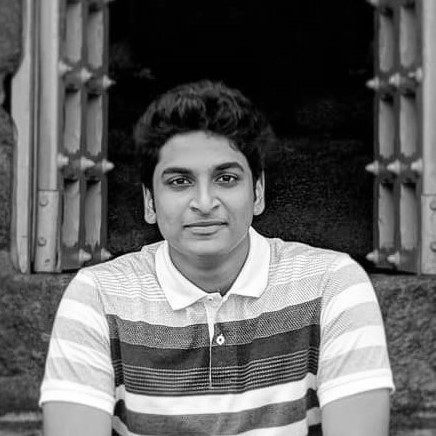
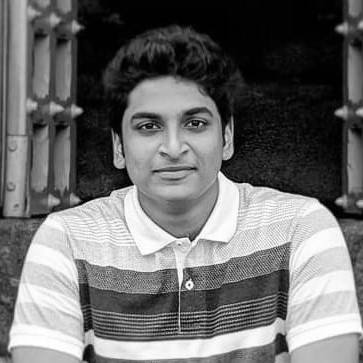
changed fonts

diff --git a/index.html b/index.html
@@ -6,50 +6,61 @@
     <meta name="viewport" content="width=device-width, initial-scale=1.0">
     <link rel="stylesheet" href="styles.css">
     <link rel="preconnect" href="https://fonts.gstatic.com">
-    <link href="https://fonts.googleapis.com/css2?family=Inter:wght@400;500;700;800&display=swap" rel="stylesheet">
+    <!-- <link href="https://fonts.googleapis.com/css2?family=Inter:wght@400;500;700;800&display=swap" rel="stylesheet"> -->
+    <!-- <link href="https://fonts.googleapis.com/css2?family=Libre+Baskerville:wght@400;700&family=Raleway:wght@400;500;700;800&display=swap" rel="stylesheet"> -->
+    <link href="https://fonts.googleapis.com/css2?family=DM+Sans:wght@400;500;700&display=swap" rel="stylesheet">
+    <!-- <link href="https://fonts.googleapis.com/css2?family=DM+Serif+Display&display=swap" rel="stylesheet"> -->
     <title>Reuben Mathew</title>
 </head>
 <body>
     <header>
         <div class="wrapper-title">
-            <span class="fname">Reuben&nbsp;</span>
-            <span class="lname">Mathew</span>
+            <span class="fname">reuben&nbsp;</span>
+            <span class="lname">mathew</span>
         </div>
         <div class="subtitle">
             <img src="img/profile-pic.jpg" class="profile-pic"/>
-            <p><span class="center-text margin-add">An active learner, interested in design thinking</span>
-                <span class="center-text">and the meeting point of humans and technology.<span><br><br>Currently working as a UI/UX Intern at <a class="link-format" href="https://emilda.in/" target="_blank" rel="noopener noreferrer">Emilda Solutions</a>.<br><br>
+            <p><span class="center-text margin-add">cse student at iiitdm interested in design thinking</span>
+                <span class="center-text">and the meeting point of humans and technology.<span><br><br>former ui/ux intern at <a class="link-format" href="https://emilda.in/" target="_blank" rel="noopener noreferrer">emilda solutions</a>.<br>
         </div>
         <!-- <div class="quote subtitle">
             <span><i>"medicine, law, business, engineering, these are noble pursuits<br> and necessary to sustain life. But poetry, beauty, romance, love, <br>these are what we stay alive for" - John Keating</i></span>
         </div> -->
     </header>
-    <div>
+    <div class="page-2"  >
+        <!-- <p>
+            <iframe src="https://open.spotify.com/embed/playlist/0CqtEmL0us8kbHvej9S8mK" width="30%" height="380" frameBorder="0" allowfullscreen="" allow="autoplay; clipboard-write; encrypted-media; fullscreen; picture-in-picture" class="sp-1"></iframe>
+        </p> -->
         <div class="wrapper-title">
-            <span class="fname">Projects</span>
+            <span class="fname">projects</span>
         </div>
         <div class="subtitle">
-            <p class="text-box project-subtitle"><span><strong class="blue-color">EyeSpyDis:</strong> A wearable device for disease detection, 
-                    by processing the image of the eye.
-                    Algorithm to detect Arcus Senilis (light ring around cornea).</span>
+            <p class="text-box project-subtitle"><span><strong class="blue-color"><a class="link-format" href="https://github.com/reubenmathew2/parallel-recommendation-system" target="_blank" rel="noopener noreferrer">parallel recommenation system:</a></aParallel></strong> user-based KNN recommendation system for the movielens data set. implemented in c.</span>
                 <!-- <br><br><a class="link-format" href="https://emilda.in/" target="_blank" rel="noopener noreferrer"></a><br><br> -->
                 </p>
-                <p class="text-box project-subtitle"><span><strong class="blue-color">Webpage Hosting Application: </strong>A private web hosting GUI application. User can upload  
+                <p class="text-box project-subtitle"><span><strong class="blue-color"><a class="link-format" href="https://www.behance.net/gallery/120324687/Roza-POS-Landing-Page" target="_blank" rel="noopener noreferrer">ui design:</a> </strong>user interface designing for landing pages as well as digital products such as point of sale software. primarily worked with adobe xd.</span>
+                </p>
+                <p class="text-box project-subtitle"><span><strong class="blue-color"><a class="link-format" href="https://github.com/reubenmathew2/connect-3-app" target="_blank" rel="noopener noreferrer">connect 3 app:</a> </strong>a variation of tic-tac-toe, played with checkers. 
+                    android app developed using java. </span>
+                </p>
+                <p class="text-box project-subtitle"><span><strong class="blue-color"><a class="link-format" href="https://github.com/reubenmathew2/faculty-profile-managment" target="_blank" rel="noopener noreferrer">web development:</a> </strong>iiitdm faculty profile management system. database systems course project.</span>
+                </p>
+                <!-- <p class="text-box project-subtitle"><span><strong class="blue-color">Webpage Hosting Application: </strong>A private web hosting GUI application. User can upload  
                     HTML/CSS files to server, a link will be provided to view 
                     the webpage in the browser. Developed using Python.</span>
                 </p>
-                <p class="text-box project-subtitle"><span><strong class="blue-color">Connect 3 App: </strong>A variation of tic-tac-toe, played with checkers. 
-                    Android App developed using Java. </span>
-                </p>
-                <!-- <p class="text-box project-subtitle"><span><strong class="blue-color">GoGarden: Essentials Delivery System: </strong>Ideation for a service for online grocery delivery in Tier-2
+                
+                <p class="text-box project-subtitle"><span><strong class="blue-color">GoGarden: Essentials Delivery System: </strong>Ideation for a service for online grocery delivery in Tier-2
                     and Tier-3 cities. Design Project.</span>
                 </p> -->
-                <p class="text-box project-subtitle"><span><strong class="blue-color">Multithreaded Tic-Tac-Toe: </strong>Multiplayer game where each player runs on a separate
+                <!-- <p class="text-box project-subtitle"><span><strong class="blue-color">Multithreaded Tic-Tac-Toe: </strong>Multiplayer game where each player runs on a separate
                     thread. Developed using python, with separate window GUI
                     for each player. </span>
-                </p>
-                <p class="text-box project-subtitle"><span><strong class="blue-color">Web Development: </strong>IIITDM Faculty profile management system. Database systems course project.</span>
-                </p>
+                </p>  -->
+                <br>
+                <br>
+                <br>
+                <br>
         </div>
     </div>
 

diff --git a/styles.css b/styles.css
@@ -1,20 +1,36 @@
 *{
-    font-family: Inter;
+    font-family: 'DM Sans', 'DM Serif Display', 'Raleway', 'Inter';
    
 }
 body{
-    background-color: #111111;
+    background-color: #0b0c0d;
+    /* background-image: url('img/nyc-bg.jpg'); */
+    /* background-color: #cccccc; */
+  height: 800px;
+  background-position: center;
+  background-repeat: no-repeat;
+  background-size: cover;
+  position: relative;
+    
 }
+
+header{
+    /* font-family: 'DM Serif Display'; */
+    
+}
+
+
 
 .fname{
     color: #FF2A4D;
     font-size: 5em;
-    font-weight: 700;
+    font-weight: 400;
+    /* font: 'DM Serif Display'; */
 }
 .lname{
     color: #EEEEEE;
     font-size: 5em;
-    font-weight: 700;
+    font-weight: 800;
 }
 
 .wrapper-title{
@@ -31,7 +47,7 @@ body{
     display: grid;
     place-items: center;
     font-size: 1.5em;
-    color: #EEEEEE;
+    color: #f7f7f7;
  
 }
 
@@ -40,7 +56,7 @@ body{
 }
 
 .blue-color{
-    color: #2ABFFF;
+    color: #f7f7f7;
 }
 .center-text{
     display: grid;
@@ -48,7 +64,7 @@ body{
 }
 
 .link-format{
-    color: #EEEEEE;
+    color: #f7f7f7;
 
 }
 
@@ -57,16 +73,26 @@ body{
 }
 
 .profile-pic{
-    width: 300px;
-    height: 300px;
-    border-radius: 50%;
+    width: 280px;
+    height: 280px;
+    border-radius: 4%;
     object-fit: cover;
     margin-bottom: 50px;
     /* border: 2px solid #EEEEEE */
 }
 
+.page-2{
+    display: grid;
+    place-items: center;
+    
 
+}
 
+.sp-1{
+    width: 300px;
+    height: 380px;
+    border-radius: 4%;
+}
 .text-box{
     max-width: 800px;
 }
@@ -78,7 +104,7 @@ body{
     .wrapper-title{
     display: grid;
     place-items: center;
-    font-size: 2vw;
+    font-size: 2.2vw;
     margin-top: 20px;
     margin-bottom: 20px;
     }
